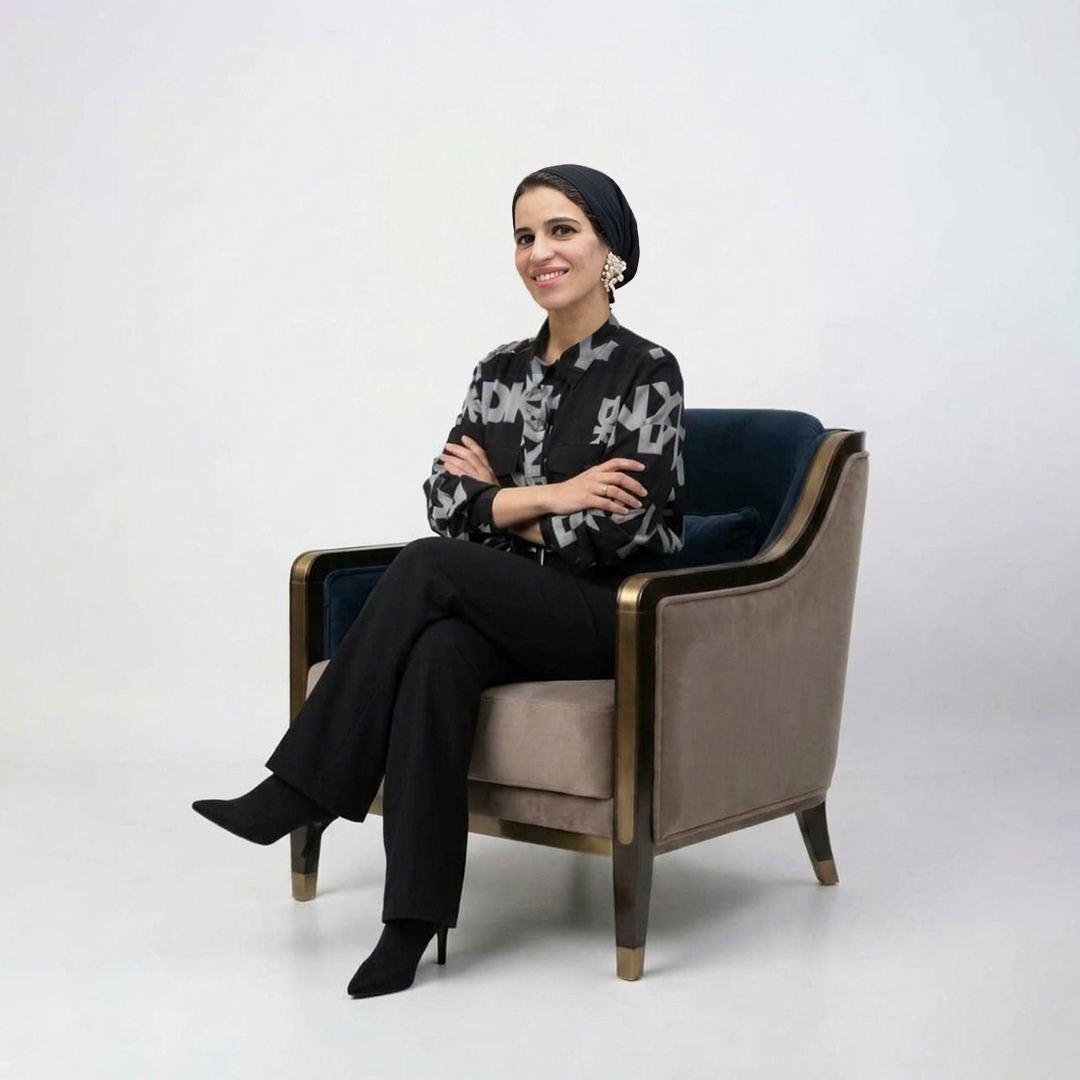
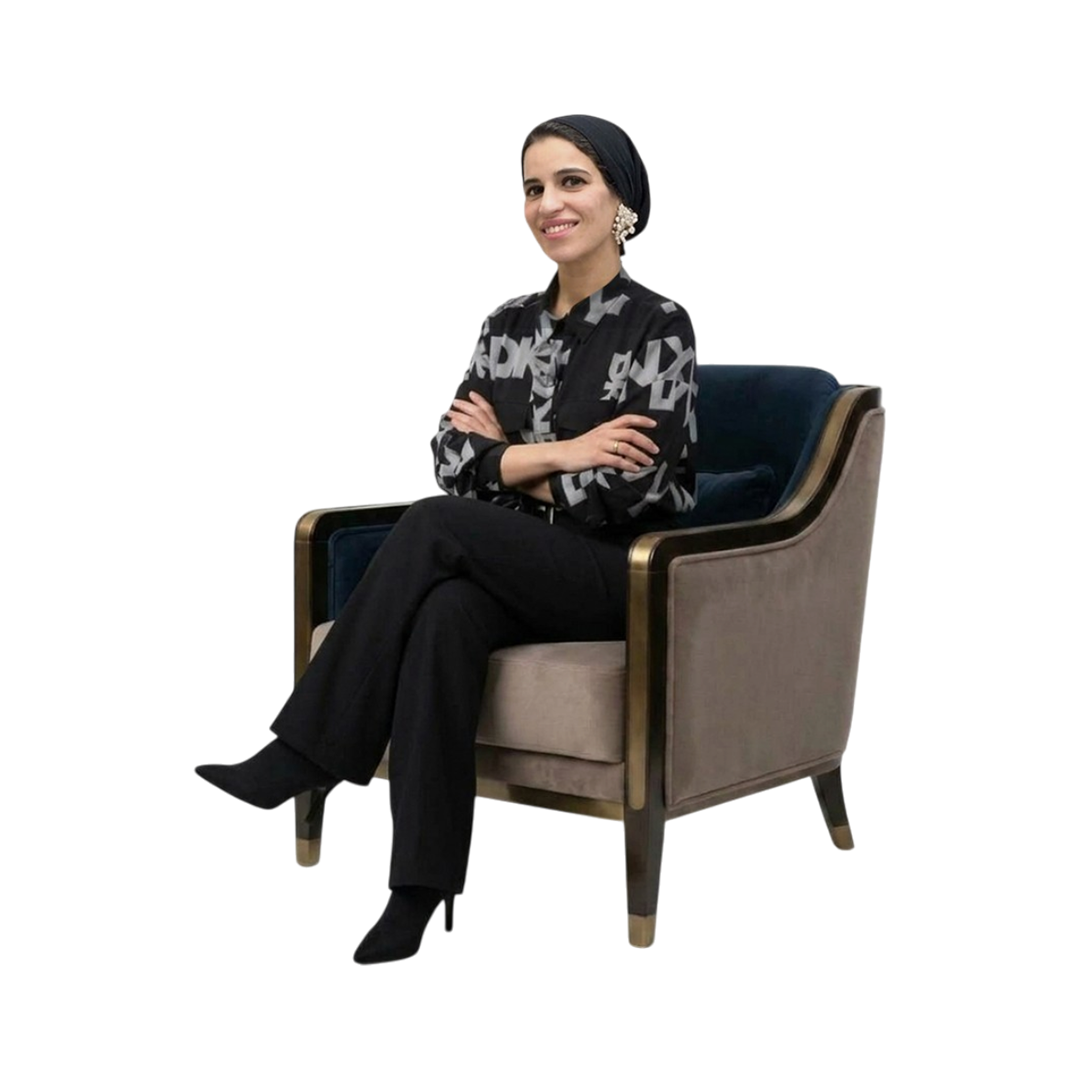
Center hero image and update image paths

diff --git a/atelier.html b/atelier.html
@@ -415,7 +415,7 @@ html[dir="rtl"] .c1-hero__photo { -webkit-mask-image: linear-gradient(270deg, tr
   .c1-hero__media { min-height: 0; }
   .c1-hero__photo { height: clamp(480px, 70vh, 620px); min-height: 0; padding-top: 0; align-items: center; -webkit-mask-image: none !important; mask-image: none !important; }
   html[dir="rtl"] .c1-hero__photo { -webkit-mask-image: none !important; mask-image: none !important; }
-  .c1-hero__photo img { width: 100%; height: 100%; max-width: none; object-fit: cover; object-position: 58% 100%; transform: scale(1.09) translateX(-3%); transform-origin: 5% 95%; -webkit-mask-image: none !important; mask-image: none !important; }
+  .c1-hero__photo img { width: 100%; height: 100%; max-width: none; object-fit: cover; object-position: 50% 100%; transform: scale(1.08); transform-origin: 50% 95%; -webkit-mask-image: none !important; mask-image: none !important; }
 }
 
 /* philosophy */
@@ -851,7 +851,7 @@ html[lang="ar"] .c1-cc h3 { line-height: 1.5; }
     </div>
     <div class="c1-hero__media">
       <img class="c1-hero__mark" src="assets/logo-mark.png" alt="" aria-hidden="true">
-      <figure class="c1-hero__photo"><img class="melt" src="pics/website.png" alt="Dr. Hoda Hatem seated in her clinic"></figure>
+      <figure class="c1-hero__photo"><img class="melt" src="pics/website1.png" alt="Dr. Hoda Hatem seated in her clinic"></figure>
     </div>
   </section>
 
@@ -870,7 +870,7 @@ html[lang="ar"] .c1-cc h3 { line-height: 1.5; }
   <!-- ABOUT -->
   <section class="c1-about c1-sec" id="c1-about">
     <div class="wrap">
-      <figure class="c1-about__portrait"><img class="melt" src="pics/website-2.jpg" alt="Portrait of Dr. Hoda Hatem"></figure>
+      <figure class="c1-about__portrait"><img class="melt" src="pics/website2.png" alt="Portrait of Dr. Hoda Hatem"></figure>
       <div class="c1-about__body" data-fade>
         <h2 class="c1-h2"><span class="en">A doctor first. Then a method.</span><span class="ar">طبيبة أولًا، ثم منهج.</span></h2>
         <p class="c1-about__lead"><span class="en">Dr. Hoda Hatem is a nutrition and weight-management specialist, and the creator of the Elite techniques.</span><span class="ar">د. هدى حاتم أخصائية تغذية وعلاج سمنة، وصاحبة تقنيات إيليت.</span></p>
@@ -1023,10 +1023,10 @@ html[lang="ar"] .c1-cc h3 { line-height: 1.5; }
         <p><span class="en">Five stages, with the same doctor from the first conversation to the last check-in.</span><span class="ar">خمس مراحل، مع نفس الطبيبة من أول حوار لآخر متابعة.</span></p>
         <figure class="c1-process__fig" aria-hidden="true">
           <img class="is-on" src="pics/website3.png" alt="" style="object-position:50% 15%">
-          <img src="pics/website-2.jpg" alt="" style="object-position:50% 12%">
-          <img src="pics/website.png" alt="" style="object-position:50% 15%">
+          <img src="pics/website2.png" alt="" style="object-position:50% 12%">
+          <img src="pics/website1.png" alt="" style="object-position:50% 15%">
           <img src="pics/website3.png" alt="" style="object-position:50% 15%">
-          <img src="pics/website-2.jpg" alt="" style="object-position:50% 12%">
+          <img src="pics/website2.png" alt="" style="object-position:50% 12%">
         </figure>
         <div class="c1-process__bar"><span></span></div>
       </div>
@@ -1152,7 +1152,7 @@ html[lang="ar"] .c1-cc h3 { line-height: 1.5; }
   <section class="c1-close">
     <div class="wrap">
       <figure class="c1-sig" data-sig>
-        <div class="c1-sig__face face-crop" style="--z:3"><img class="melt" src="pics/website.png" alt="Dr. Hoda Hatem"></div>
+        <div class="c1-sig__face face-crop" style="--z:3"><img class="melt" src="pics/website1.png" alt="Dr. Hoda Hatem"></div>
         <blockquote class="c1-sig__quote"><span class="en">“Come as you are. We start with a conversation, not a diet.”</span><span class="ar">«تعالى زي ما انت. هنبدأ بحوار، مش برجيم.»</span></blockquote>
         <figcaption class="c1-sig__name"><b><span class="en">Dr. Hoda Hatem</span><span class="ar">د. هدى حاتم</span></b><span><span class="en">Founder of the Elite techniques</span><span class="ar">مؤسسة تقنيات إيليت</span></span></figcaption>
         <div class="c1-sig__cta">

diff --git a/index.html b/index.html
@@ -415,7 +415,7 @@ html[dir="rtl"] .c1-hero__photo { -webkit-mask-image: linear-gradient(270deg, tr
   .c1-hero__media { min-height: 0; }
   .c1-hero__photo { height: clamp(480px, 70vh, 620px); min-height: 0; padding-top: 0; align-items: center; -webkit-mask-image: none !important; mask-image: none !important; }
   html[dir="rtl"] .c1-hero__photo { -webkit-mask-image: none !important; mask-image: none !important; }
-  .c1-hero__photo img { width: 100%; height: 100%; max-width: none; object-fit: cover; object-position: 58% 100%; transform: scale(1.09) translateX(-3%); transform-origin: 5% 95%; -webkit-mask-image: none !important; mask-image: none !important; }
+  .c1-hero__photo img { width: 100%; height: 100%; max-width: none; object-fit: cover; object-position: 50% 100%; transform: scale(1.08); transform-origin: 50% 95%; -webkit-mask-image: none !important; mask-image: none !important; }
 }
 
 /* philosophy */
@@ -851,7 +851,7 @@ html[lang="ar"] .c1-cc h3 { line-height: 1.5; }
     </div>
     <div class="c1-hero__media">
       <img class="c1-hero__mark" src="assets/logo-mark.png" alt="" aria-hidden="true">
-      <figure class="c1-hero__photo"><img class="melt" src="pics/website.png" alt="Dr. Hoda Hatem seated in her clinic"></figure>
+      <figure class="c1-hero__photo"><img class="melt" src="pics/website1.png" alt="Dr. Hoda Hatem seated in her clinic"></figure>
     </div>
   </section>
 
@@ -870,7 +870,7 @@ html[lang="ar"] .c1-cc h3 { line-height: 1.5; }
   <!-- ABOUT -->
   <section class="c1-about c1-sec" id="c1-about">
     <div class="wrap">
-      <figure class="c1-about__portrait"><img class="melt" src="pics/website-2.jpg" alt="Portrait of Dr. Hoda Hatem"></figure>
+      <figure class="c1-about__portrait"><img class="melt" src="pics/website2.png" alt="Portrait of Dr. Hoda Hatem"></figure>
       <div class="c1-about__body" data-fade>
         <h2 class="c1-h2"><span class="en">A doctor first. Then a method.</span><span class="ar">طبيبة أولًا، ثم منهج.</span></h2>
         <p class="c1-about__lead"><span class="en">Dr. Hoda Hatem is a nutrition and weight-management specialist, and the creator of the Elite techniques.</span><span class="ar">د. هدى حاتم أخصائية تغذية وعلاج سمنة، وصاحبة تقنيات إيليت.</span></p>
@@ -1023,10 +1023,10 @@ html[lang="ar"] .c1-cc h3 { line-height: 1.5; }
         <p><span class="en">Five stages, with the same doctor from the first conversation to the last check-in.</span><span class="ar">خمس مراحل، مع نفس الطبيبة من أول حوار لآخر متابعة.</span></p>
         <figure class="c1-process__fig" aria-hidden="true">
           <img class="is-on" src="pics/website3.png" alt="" style="object-position:50% 15%">
-          <img src="pics/website-2.jpg" alt="" style="object-position:50% 12%">
-          <img src="pics/website.png" alt="" style="object-position:50% 15%">
+          <img src="pics/website2.png" alt="" style="object-position:50% 12%">
+          <img src="pics/website1.png" alt="" style="object-position:50% 15%">
           <img src="pics/website3.png" alt="" style="object-position:50% 15%">
-          <img src="pics/website-2.jpg" alt="" style="object-position:50% 12%">
+          <img src="pics/website2.png" alt="" style="object-position:50% 12%">
         </figure>
         <div class="c1-process__bar"><span></span></div>
       </div>
@@ -1152,7 +1152,7 @@ html[lang="ar"] .c1-cc h3 { line-height: 1.5; }
   <section class="c1-close">
     <div class="wrap">
       <figure class="c1-sig" data-sig>
-        <div class="c1-sig__face face-crop" style="--z:3"><img class="melt" src="pics/website.png" alt="Dr. Hoda Hatem"></div>
+        <div class="c1-sig__face face-crop" style="--z:3"><img class="melt" src="pics/website1.png" alt="Dr. Hoda Hatem"></div>
         <blockquote class="c1-sig__quote"><span class="en">“Come as you are. We start with a conversation, not a diet.”</span><span class="ar">«تعالى زي ما انت. هنبدأ بحوار، مش برجيم.»</span></blockquote>
         <figcaption class="c1-sig__name"><b><span class="en">Dr. Hoda Hatem</span><span class="ar">د. هدى حاتم</span></b><span><span class="en">Founder of the Elite techniques</span><span class="ar">مؤسسة تقنيات إيليت</span></span></figcaption>
         <div class="c1-sig__cta">
